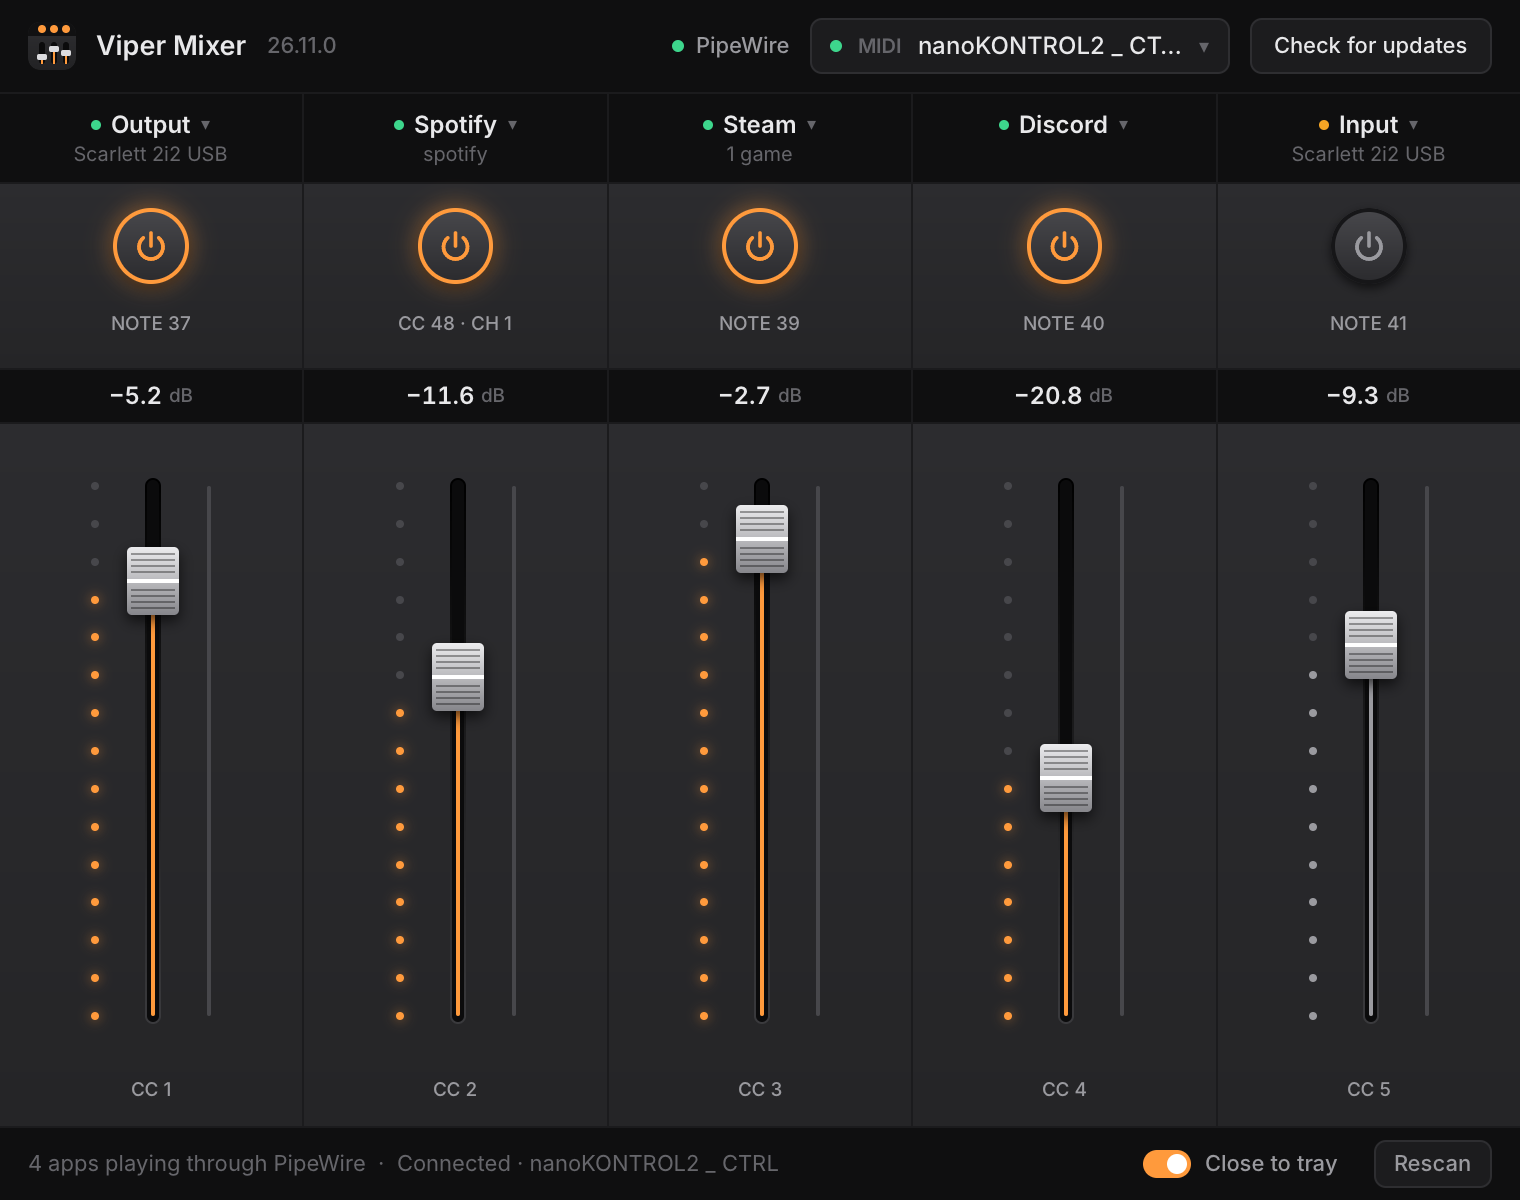
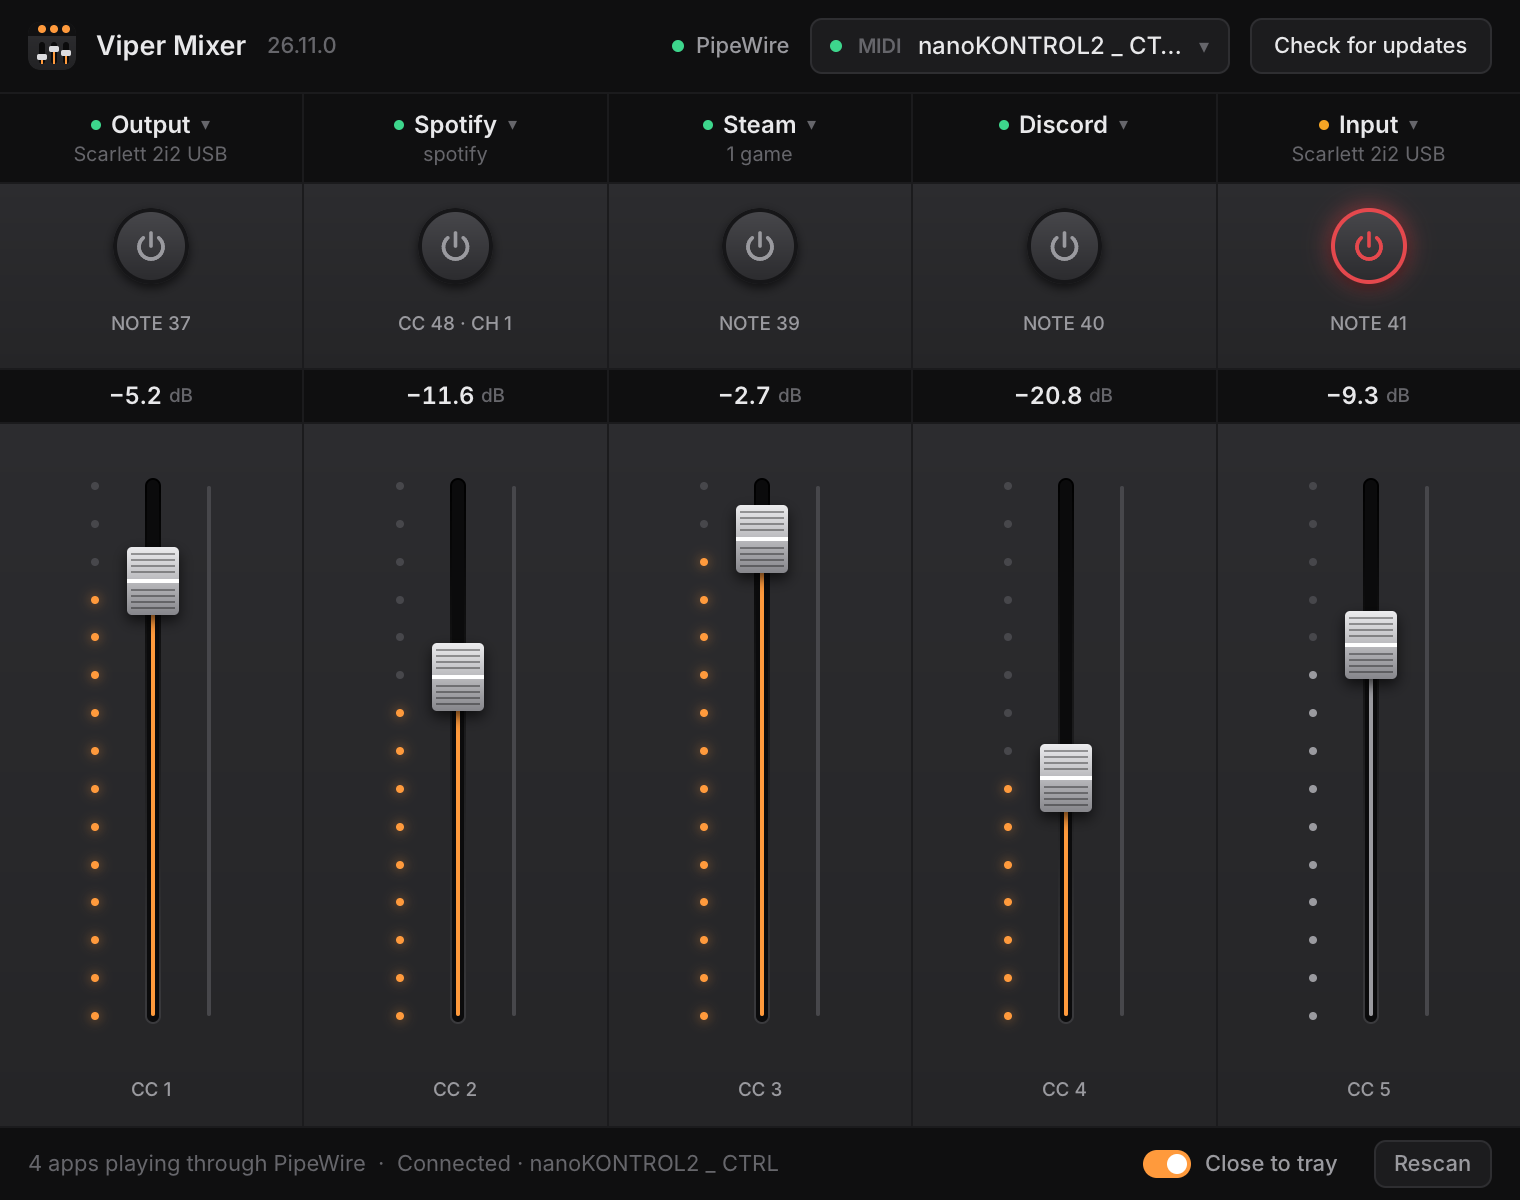
Light the power button red while muted
Changelog: none

diff --git a/src/ui.rs b/src/ui.rs
@@ -428,27 +428,27 @@ fn power_icon(color: Color) -> El {
         .a11y_hidden()
 }
 
-/// The strip's mute, as a power button: lit while the strip plays, dark while it's muted.
+/// The strip's mute, as a power button: dark while the strip plays, glowing red while it's muted.
 fn power_button(s: &Mixer, index: usize) -> El {
-    let on = !s.muted[index];
-    let accent = c(ACCENT);
+    let muted = s.muted[index];
+    let red = c(RED);
     let button = el()
         .key(format!("mute-{index}"))
         .role("switch")
         .label(format!("Mute strip {}", index + 1))
-        .help(if on { "Playing. Press to mute." } else { "Muted. Press to unmute." })
-        .checked(!on)
+        .help(if muted { "Muted. Press to unmute." } else { "Playing. Press to mute." })
+        .checked(muted)
         .focusable(true)
         .size(POWER, POWER)
         .radius(POWER / 2.0)
         .center()
         .gradient(c("#48484C"), c("#2A2A2D"))
-        .border(2.0, if on { accent } else { c("#161618") })
+        .border(2.0, if muted { red } else { c("#161618") })
         .shadow(2.0, 5.0, Color::BLACK.alpha(0.6))
         .hover(Color::WHITE.alpha(0.05))
         .on_press(move |s: &mut Mixer| s.set_muted(index, !s.muted[index]))
-        .child(power_icon(if on { accent } else { c(DIM) }));
-    if on { button.box_shadow(glow(accent.alpha(0.5), 12.0)) } else { button }
+        .child(power_icon(if muted { red } else { c(DIM) }));
+    if muted { button.box_shadow(glow(red.alpha(0.55), 12.0)) } else { button }
 }
 
 /// The lights beside a fader, lit from the bottom up to its level; a muted strip's are grey.

diff --git a/README.md b/README.md
@@ -38,8 +38,8 @@ cargo run --release
   the fader. Press one, then move a fader or press a button on the controller to bind it, by
   channel. Right-click one to unbind it. A control bound to one strip comes off any other. Out of
   the box, faders are CC 1–5 and mutes are notes 37–41 on any channel.
-- **Power buttons.** A strip's power button glows while it plays; pressing it mutes the strip
-  and turns its lights grey. A mute on the controller follows its switch: down mutes, up unmutes.
+- **Power buttons.** Pressing a strip's power button mutes it: the button glows red and the
+  strip's lights turn grey. A mute on the controller follows its switch: down mutes, up unmutes.
 - **Hardware that comes and goes.** The controller is remembered by name without ALSA's port
   numbers, so it reconnects after you unplug it, plug it into another USB port, or reboot.
   Automatic picks the first hardware input and skips MIDI Through and virtual ports. Strips on
